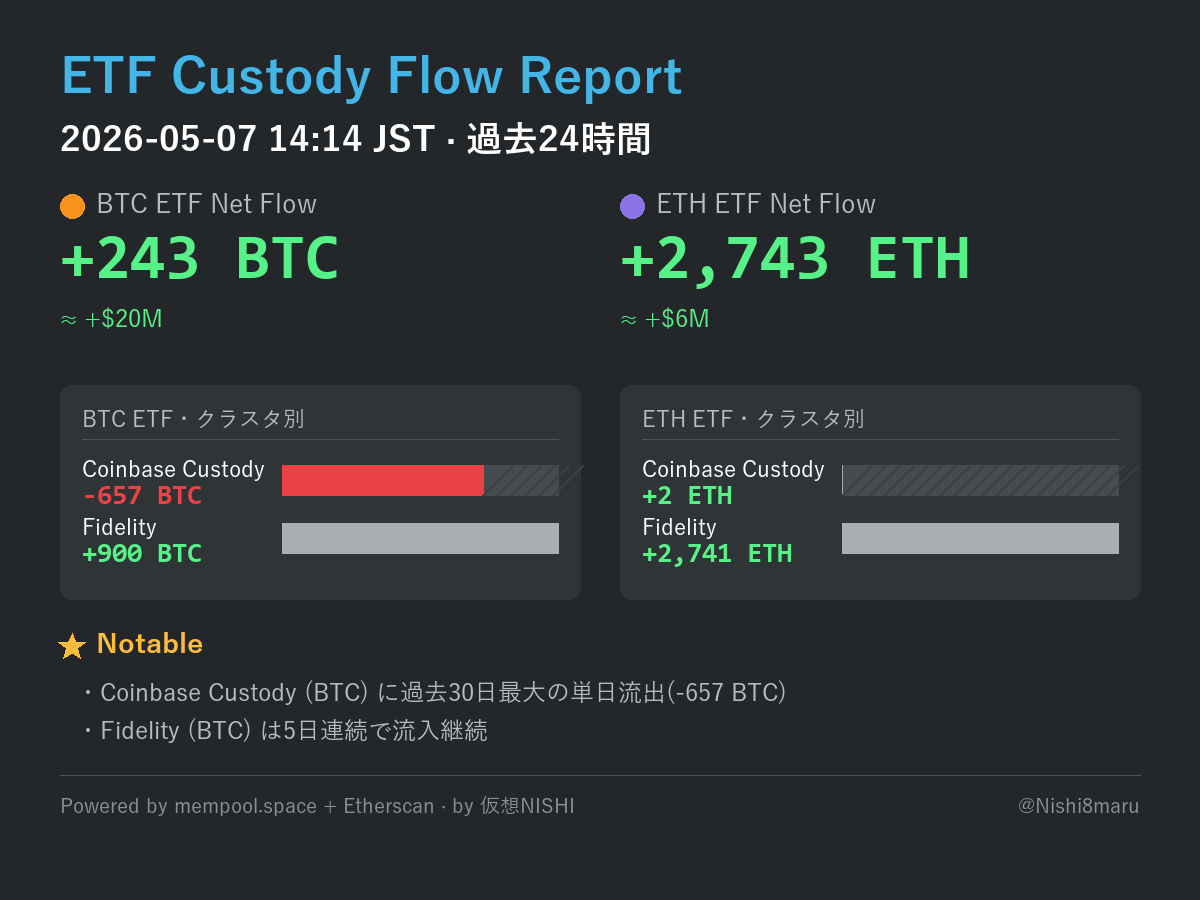
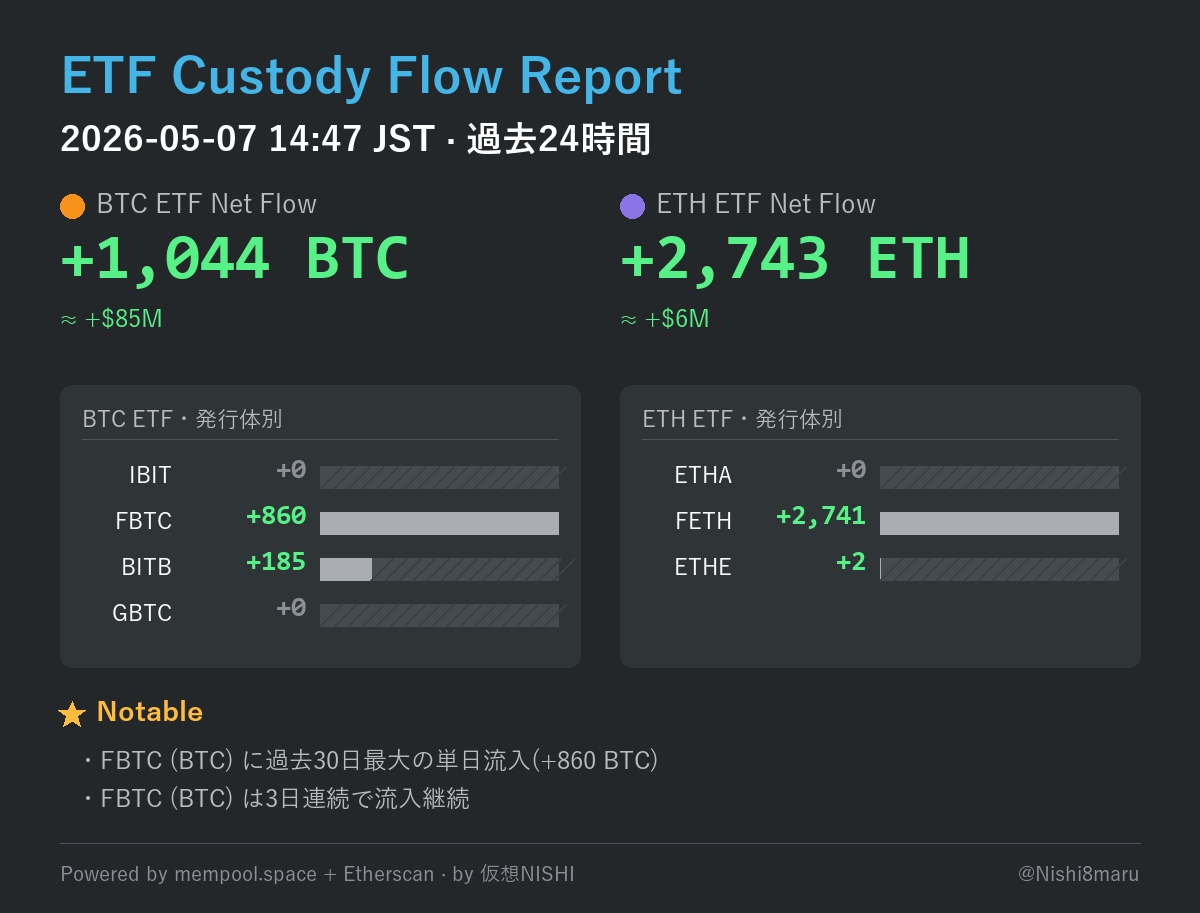
Phase 2: per-issuer ETF breakdown (IBIT/FBTC/BITB/GBTC + ETHA/FETH/ETHE)
- config/clusters.yaml: split coinbase_custody/fidelity into 7 ETF tickers (4 BTC + 3 ETH). ARKB pending Arkham CSV.
- src/config.py: Cluster gains issuer field
- scripts/parse_arkham_csv.py:
    - rules now classify by ETF ticker (BlackRock IBIT -> ibit, Bitwise BITB -> bitb, etc.)
    - exclude all Coinbase Prime labels (omnibus, can't attribute to specific ETF)
    - dedupe addresses across clusters by priority order (ibit > fbtc > bitb > gbtc > etha > feth > ethe)
- scripts/ingest_addresses.py: VALID_CLUSTERS updated to 7 issuer ids
- src/render_image.py:
    - card title 'クラスタ別' -> '発行体別' (matches reference image)
    - inline label + signed Net + bar (vs stacked) — closer to reference
    - tighter line height (46px) to fit 4 BTC ETFs per card

73 issuer-attributed addresses ingested from existing 5 CSVs. Local Discord+X (image) tested and posted successfully.

diff --git a/scripts/parse_arkham_csv.py b/scripts/parse_arkham_csv.py
@@ -45,31 +45,53 @@ if hasattr(sys.stderr, "reconfigure"):
 
 # (regex, mapping or None for explicit exclude)
 # 上から順に評価、最初にマッチしたものを採用
+# Phase 2: 発行体別 (ETF ticker) に振り分け
 RULES: list[tuple[re.Pattern[str], Optional[dict[str, str]]]] = [
-    # 個別 ETF 専用 entity
-    (re.compile(r"Fidelity FBTC", re.I), {"bitcoin": "fidelity_btc"}),
-    (re.compile(r"Fidelity FETH", re.I), {"ethereum": "fidelity_eth"}),
-    (re.compile(r"Fidelity Ethereum ETF", re.I), {"ethereum": "fidelity_eth"}),
-    (re.compile(r"Fidelity Custody", re.I), {"bitcoin": "fidelity_btc", "ethereum": "fidelity_eth"}),
-    (re.compile(r"\bFidelity\b", re.I), {"bitcoin": "fidelity_btc", "ethereum": "fidelity_eth"}),
-    # ETF 発行体(全て Coinbase Custody/Prime にカストディされている前提)
-    (re.compile(r"BlackRock", re.I), {"bitcoin": "coinbase_custody_btc", "ethereum": "coinbase_custody_eth"}),
-    (re.compile(r"Grayscale", re.I), {"bitcoin": "coinbase_custody_btc", "ethereum": "coinbase_custody_eth"}),
-    (re.compile(r"Bitwise", re.I), {"bitcoin": "coinbase_custody_btc", "ethereum": "coinbase_custody_eth"}),
-    # Coinbase Custody/Prime の Deposit Funder 系(ETF 用と確実)
-    (re.compile(r"Coinbase Prime:?\s*(Custody Deposit|Deposit Funder|Custody)", re.I),
-     {"bitcoin": "coinbase_custody_btc", "ethereum": "coinbase_custody_eth"}),
+    # === BTC ETF 発行体別 ===
+    # BlackRock IBIT
+    (re.compile(r"BlackRock.*IBIT", re.I), {"bitcoin": "ibit"}),
+    # Fidelity FBTC
+    (re.compile(r"Fidelity FBTC", re.I), {"bitcoin": "fbtc"}),
+    # Bitwise BITB / Core Bitcoin ETP も BITB に統合(同じ Bitwise BTC ETF カテゴリ)
+    (re.compile(r"Bitwise.*(BITB|Core Bitcoin)", re.I), {"bitcoin": "bitb"}),
+    # Grayscale BTC (Bitcoin Trust / Bitcoin Mini Trust 含む)
+    (re.compile(r"Grayscale.*(Bitcoin|GBTC|BTC)", re.I), {"bitcoin": "gbtc"}),
+
+    # === ETH ETF 発行体別 ===
+    # BlackRock ETHA
+    (re.compile(r"BlackRock.*ETHA", re.I), {"ethereum": "etha"}),
+    # Fidelity FETH / Ethereum ETF
+    (re.compile(r"Fidelity (FETH|Ethereum ETF)", re.I), {"ethereum": "feth"}),
+    # Grayscale ETH (Ethereum Trust / Ethereum Mini Trust)
+    (re.compile(r"Grayscale.*(Ethereum|ETHE|ETH)", re.I), {"ethereum": "ethe"}),
+
+    # === Fidelity 汎用ラベル(ETF specific でない場合) ===
+    # 「Fidelity Custody: Hot Wallet」のような omnibus はチェーン別に按分
+    (re.compile(r"Fidelity Custody", re.I), {"bitcoin": "fbtc", "ethereum": "feth"}),
+    (re.compile(r"\bFidelity\b", re.I), {"bitcoin": "fbtc", "ethereum": "feth"}),
+
+    # === BlackRock / Bitwise / Grayscale の汎用フォールバック ===
+    (re.compile(r"BlackRock", re.I), {"bitcoin": "ibit", "ethereum": "etha"}),
+    (re.compile(r"Bitwise", re.I), {"bitcoin": "bitb"}),  # ETH の Bitwise は現状なし
+    (re.compile(r"Grayscale", re.I), {"bitcoin": "gbtc", "ethereum": "ethe"}),
+
+    # === Coinbase Prime 系すべて除外 ===
+    # ETF カストディアンだが omnibus(複数 ETF の共有 wallet)で、特定の ETF に紐付け不能
+    (re.compile(r"Coinbase Prime", re.I), None),
+    # ARK Invest (ARKB の発行体) — 将来 CSV 提供されたら ARKB に振る
+    # (re.compile(r"ARK Invest|ARK 21Shares|ARKB", re.I), {"bitcoin": "arkb"}),
+
     # === 除外ルール ===
     # 一般取引所 hot wallet
     (re.compile(r"^Coinbase \(", re.I), None),
     (re.compile(r"^Coinbase \d+", re.I), None),
     # omnibus(ETF と一般顧客の両方を抱えるので除外)
     (re.compile(r"Coinbase Prime:?\s*Hot Wallet", re.I), None),
-    (re.compile(r"Coinbase:?\s*Hot Wallet", re.I), None),  # 一般取引所 hot wallet
+    (re.compile(r"Coinbase:?\s*Hot Wallet", re.I), None),
     (re.compile(r"Coinbase:?\s*(Cold|Fees|Deposit\b)", re.I), None),
     # MEV builders(ETH の block builder、ETF と無関係)
     (re.compile(r"BuilderNet|Titan Builder|Quasar Builder|Beaver\s*Build|Flashbots Builder|rsync.builder|MEV Builder", re.I), None),
-    # 既知のexchange/protocol(継承で巻き込まれないように)
+    # 既知のexchange/protocol
     (re.compile(r"Wintermute|Flow Trad", re.I), None),
 ]
 
@@ -179,13 +201,25 @@ def main() -> None:
             merged.setdefault(k, set()).update(v)
         all_warnings.extend([f"[{f.name}] {w}" for w in warnings])
 
-    # 結果出力(ingest_addresses.py 互換形式)
+    # 結果出力(ingest_addresses.py 互換形式) — Phase 2: 発行体別
     cluster_order = [
-        "coinbase_custody_btc",
-        "fidelity_btc",
-        "coinbase_custody_eth",
-        "fidelity_eth",
+        "ibit", "fbtc", "bitb", "gbtc",
+        "etha", "feth", "ethe",
     ]
+    # 同一アドレスが複数 ETF に現れた場合、優先順位最初のクラスタに固定
+    # (例: bc1qfse9t6... が fbtc と bitb の両方で見つかる時は fbtc 優先)
+    seen: set[str] = set()
+    dedupe_log: list[str] = []
+    for cid in cluster_order:
+        addrs = merged.get(cid, set())
+        unique = addrs - seen
+        dropped = addrs - unique
+        if dropped:
+            for a in dropped:
+                dedupe_log.append(f"  {cid}: {a} (already in earlier cluster)")
+        merged[cid] = unique
+        seen.update(unique)
+
     total = 0
     for cid in cluster_order:
         addrs = merged.get(cid, set())
@@ -195,6 +229,13 @@ def main() -> None:
                 print(a)
             print()
             total += len(addrs)
+
+    if dedupe_log:
+        print(f"\n# === dedupe (duplicates removed) ===", file=sys.stderr)
+        for line in dedupe_log[:20]:
+            print(line, file=sys.stderr)
+        if len(dedupe_log) > 20:
+            print(f"  ...({len(dedupe_log) - 20} more)", file=sys.stderr)
 
     # サマリ(stderr)
     print(f"\n# === summary ===", file=sys.stderr)

diff --git a/src/render_image.py b/src/render_image.py
@@ -251,14 +251,14 @@ def render_daily_report(
     )
     y += 30
 
-    # ============== クラスタ別カード(2カラム) ==============
-    card_h = _calc_card_h(btc, eth, line_h=58, header_h=50, padding_v=24)
+    # ============== 発行体別カード(2カラム) ==============
+    card_h = _calc_card_h(btc, eth, line_h=46, header_h=50, padding_v=24)
     _draw_cluster_card(
-        draw, col_left_x, y, col_w, card_h, "BTC ETF・クラスタ別",
+        draw, col_left_x, y, col_w, card_h, "BTC ETF・発行体別",
         btc, "BTC", card_title_font, cluster_label_font, cluster_num_font,
     )
     _draw_cluster_card(
-        draw, col_right_x, y, col_w, card_h, "ETH ETF・クラスタ別",
+        draw, col_right_x, y, col_w, card_h, "ETH ETF・発行体別",
         eth, "ETH", card_title_font, cluster_label_font, cluster_num_font,
     )
     y += card_h + 30
@@ -360,24 +360,32 @@ def _draw_cluster_card(
     if max_abs == 0:
         max_abs = 1
 
-    bar_left = x + inner_pad + 200
+    # 横並びレイアウト: [ラベル右寄せ] [Net 値左寄せ・色付き] [バー]
+    label_w = 90       # IBIT/FBTC など 4文字想定
+    net_w = 120        # +1,659 など想定
+    gap = 14
+    bar_left = x + inner_pad + label_w + gap + net_w + gap
     bar_right = x + width - inner_pad
     bar_w = bar_right - bar_left
+    bar_h = 22
 
     for c in summary.clusters:
-        # ラベル
-        draw.text((x + inner_pad, line_y), c.label, font=label_font, fill=TEXT_COLOR)
+        # ラベル(右寄せ)
+        lw = _text_w(draw, c.label, label_font)
+        draw.text((x + inner_pad + label_w - lw, line_y + 6), c.label, font=label_font, fill=TEXT_COLOR)
         # 値(緑/赤)
-        net_text = f"{_signed(c.net_flow)} {unit}"
+        net_text = _signed(c.net_flow)
         net_color = _color_for_net(c.net_flow)
-        # ラベルの右、バーの上に値を載せる
-        draw.text((x + inner_pad, line_y + 26), net_text, font=num_font, fill=net_color)
+        nw = _text_w(draw, net_text, num_font)
+        # 右寄せで Net を表示
+        net_x_end = x + inner_pad + label_w + gap + net_w
+        draw.text((net_x_end - nw, line_y), net_text, font=num_font, fill=net_color)
         # バー
         ratio = c.net_flow / max_abs
         _draw_progress_bar(
             draw,
-            bar_left, line_y + 8,
-            bar_w, 30,
+            bar_left, line_y + 9,
+            bar_w, bar_h,
             ratio,
         )
-        line_y += 58
+        line_y += 46

diff --git a/scripts/ingest_addresses.py b/scripts/ingest_addresses.py
@@ -56,10 +56,14 @@ BTC_RE = re.compile(r"^(bc1[a-z0-9]{6,87}|[13][a-zA-HJ-NP-Z1-9]{25,34})$")
 ETH_RE = re.compile(r"^0x[a-fA-F0-9]{40}$")
 
 VALID_CLUSTERS = {
-    "coinbase_custody_btc": "bitcoin",
-    "fidelity_btc": "bitcoin",
-    "coinbase_custody_eth": "ethereum",
-    "fidelity_eth": "ethereum",
+    # Phase 2: 発行体別 (ETF ticker)
+    "ibit": "bitcoin",   # BlackRock
+    "fbtc": "bitcoin",   # Fidelity
+    "bitb": "bitcoin",   # Bitwise
+    "gbtc": "bitcoin",   # Grayscale
+    "etha": "ethereum",  # BlackRock
+    "feth": "ethereum",  # Fidelity
+    "ethe": "ethereum",  # Grayscale
 }
 
 

diff --git a/src/config.py b/src/config.py
@@ -14,9 +14,15 @@ CONFIG_DIR = ROOT / "config"
 
 
 class Cluster(BaseModel):
+    """旧スキーマ互換 + 発行体別 (Phase 2) 拡張。
+
+    Phase 2: id を ETF ticker (ibit, fbtc, bitb, gbtc, etha, feth, ethe) で運用。
+    issuer は表示時に使う発行体名(BlackRock, Fidelity, Bitwise, Grayscale)。
+    """
     id: str
     label: str
     chain: str  # 'bitcoin' or 'ethereum'
+    issuer: str = ""  # Phase 2 で必須化、空なら label をそのまま使う
     note: str = ""
     addresses: list[str] = Field(default_factory=list)
 